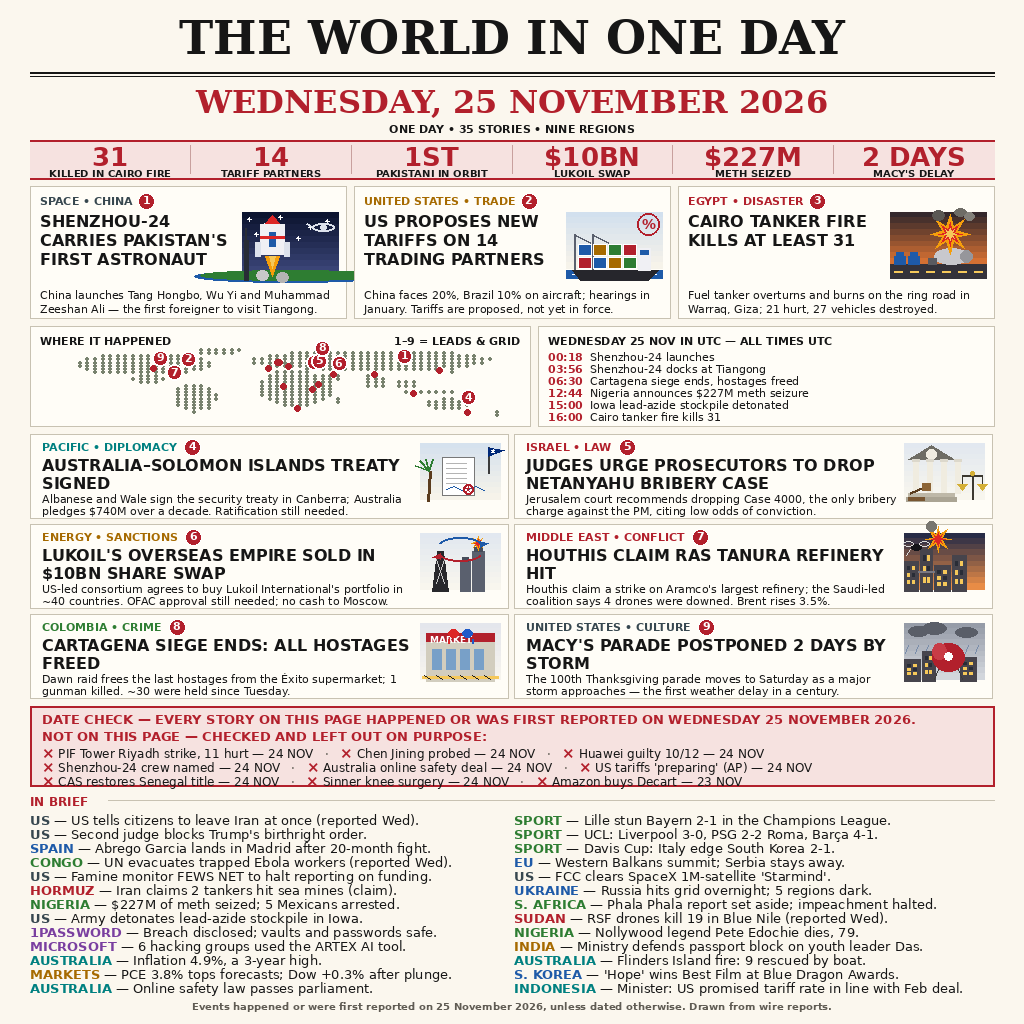
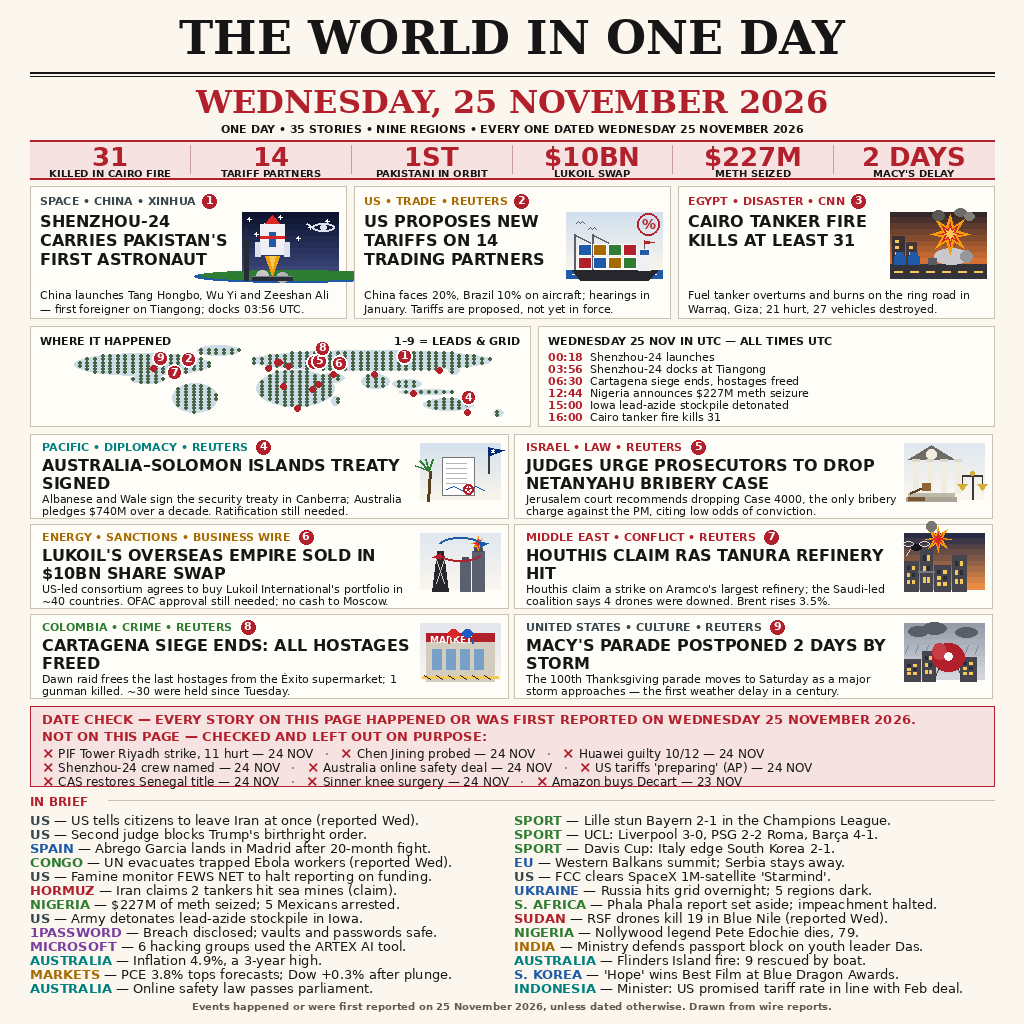
v2 design review: map landmass fill, source tags, date affirmation in sub-line, richer lead art, thinner DATE CHECK border

diff --git a/generate_poster.py b/generate_poster.py
@@ -161,6 +161,10 @@ def ill_rocket(d, x, y, w, h):
               fill=(245, 200, 90))
     d.ellipse([rx - 4, base - 10, rx + 8, base], fill=(200, 200, 200))
     d.ellipse([rx + 16, base - 8, rx + 28, base + 2], fill=(180, 180, 180))
+    # launch pad platform under the rocket
+    d.rectangle([rx - 8, base - 4, rx + 32, base], fill=(40, 44, 54))
+    d.line([(rx - 8, base - 4), (rx + 32, base - 4)], fill=(120, 126, 138),
+           width=1)
     # launch tower silhouette, far left
     d.rectangle([x + 2, base - 40, x + 6, base], fill=(40, 44, 54))
     d.line([(x + 4, base - 40), (x + 4, base - 52)], fill=(40, 44, 54), width=2)
@@ -194,11 +198,21 @@ def ill_tariff(d, x, y, w, h):
             by = base - 8 - (r + 1) * 13
             d.rectangle([bx, by, bx + 13, by + 11], fill=cols[(r + c) % 4],
                         outline=(255, 255, 255), width=1)
-    # bridge tower
+    # bridge tower + small flag on top
     d.rectangle([x + w - 24, base - 30, x + w - 12, base - 8],
                 fill=(240, 240, 244))
     d.rectangle([x + w - 22, base - 28, x + w - 14, base - 24],
                 fill=(30, 90, 168))
+    d.line([(x + w - 18, base - 38), (x + w - 18, base - 30)],
+           fill=(90, 96, 110), width=1)
+    d.polygon([(x + w - 18, base - 38), (x + w - 8, base - 36),
+               (x + w - 18, base - 34)], fill=(178, 32, 44))
+    # gulls in the sky
+    for gx, gy in ((x + 14, y + 12), (x + 26, y + 18)):
+        d.arc([gx - 4, gy - 3, gx, gy + 3], 200, 340, fill=(90, 96, 110),
+              width=1)
+        d.arc([gx, gy - 3, gx + 4, gy + 3], 200, 340, fill=(90, 96, 110),
+              width=1)
     # big red % stamp, top-right
     px, py = x + w - 14, y + 12
     d.ellipse([px - 11, py - 11, px + 11, py + 11], outline=(178, 32, 44),
@@ -214,6 +228,13 @@ def ill_tanker_fire(d, x, y, w, h):
     """
     base = y + h - 6
     sky_bands(d, x, y, w, h - 14, (52, 40, 44), (232, 122, 52))
+    # Cairo skyline silhouettes behind the highway
+    d.rectangle([x + 2, base - 42, x + 14, base - 14], fill=(58, 48, 52))
+    d.rectangle([x + 16, base - 36, x + 26, base - 14], fill=(66, 54, 58))
+    for wy in (base - 38, base - 32, base - 26):
+        d.rectangle([x + 5, wy, x + 8, wy + 2], fill=(245, 200, 90))
+    for wy in (base - 32, base - 26):
+        d.rectangle([x + 19, wy, x + 22, wy + 2], fill=(245, 200, 90))
     # highway
     d.rectangle([x, base - 14, x + w, base], fill=(52, 50, 58))
     for lx in range(x + 4, x + w - 4, 16):
@@ -485,6 +506,12 @@ def draw_map(d, x0, y0, w, h, dot_r=2.2):
         return y0 + (lat0 - lat) / (lat0 - lat1) * h
 
     step_lon, step_lat = 5.8, 6.0
+    # Pale landmass fill first, so the map reads as continents at
+    # thumbnail size (dots alone turn into a faint smear).
+    for (clon, clat, rx, ry) in LAND:
+        gx0, gy0 = px(clon - rx), py(clat + ry)
+        gx1, gy1 = px(clon + rx), py(clat - ry)
+        d.ellipse([gx0, gy0, gx1, gy1], fill=(205, 220, 228))
     lon = -177.0
     while lon <= 187.0:
         lat = 75.0
@@ -493,7 +520,7 @@ def draw_map(d, x0, y0, w, h, dot_r=2.2):
                 if ((lon - clon) / rx) ** 2 + ((lat - clat) / ry) ** 2 <= 1.0:
                     gx, gy = px(lon), py(lat)
                     d.ellipse([gx - dot_r, gy - dot_r, gx + dot_r, gy + dot_r],
-                              fill=(120, 130, 110))
+                              fill=(70, 100, 70))
                     break
             lat -= step_lat
         lon += step_lon
@@ -528,17 +555,17 @@ STRIP = [
 ]
 
 LEADS = [
-    {"kicker": "SPACE \u2022 CHINA", "color": C_SLATE, "badge": "1",
+    {"kicker": "SPACE \u2022 CHINA \u2022 XINHUA", "color": C_SLATE, "badge": "1",
      "art": ill_rocket,
      "headline": "SHENZHOU-24 CARRIES PAKISTAN'S FIRST ASTRONAUT",
-     "deck": ("China launches Tang Hongbo, Wu Yi and Muhammad Zeeshan "
-              "Ali \u2014 the first foreigner to visit Tiangong.")},
-    {"kicker": "UNITED STATES \u2022 TRADE", "color": C_AMBER, "badge": "2",
+     "deck": ("China launches Tang Hongbo, Wu Yi and Zeeshan Ali \u2014 "
+              "first foreigner on Tiangong; docks 03:56 UTC.")},
+    {"kicker": "US \u2022 TRADE \u2022 REUTERS", "color": C_AMBER, "badge": "2",
      "art": ill_tariff,
      "headline": "US PROPOSES NEW TARIFFS ON 14 TRADING PARTNERS",
      "deck": ("China faces 20%, Brazil 10% on aircraft; hearings in "
               "January. Tariffs are proposed, not yet in force.")},
-    {"kicker": "EGYPT \u2022 DISASTER", "color": C_CRIMSON, "badge": "3",
+    {"kicker": "EGYPT \u2022 DISASTER \u2022 CNN", "color": C_CRIMSON, "badge": "3",
      "art": ill_tanker_fire,
      "headline": "CAIRO TANKER FIRE KILLS AT LEAST 31",
      "deck": ("Fuel tanker overturns and burns on the ring road in "
@@ -555,37 +582,37 @@ TIMELINE = [
 ]
 
 GRID = [
-    {"kicker": "PACIFIC \u2022 DIPLOMACY", "color": C_TEAL, "badge": "4",
+    {"kicker": "PACIFIC \u2022 DIPLOMACY \u2022 REUTERS", "color": C_TEAL, "badge": "4",
      "art": ill_treaty,
      "headline": "AUSTRALIA\u2013SOLOMON ISLANDS TREATY SIGNED",
      "body": ("Albanese and Wale sign the security treaty in Canberra; "
               "Australia pledges $740M over a decade. Ratification "
               "still needed.")},
-    {"kicker": "ISRAEL \u2022 LAW", "color": C_CRIMSON, "badge": "5",
+    {"kicker": "ISRAEL \u2022 LAW \u2022 REUTERS", "color": C_CRIMSON, "badge": "5",
      "art": ill_court,
      "headline": "JUDGES URGE PROSECUTORS TO DROP NETANYAHU BRIBERY CASE",
      "body": ("Jerusalem court recommends dropping Case 4000, the only "
               "bribery charge against the PM, citing low odds of "
               "conviction.")},
-    {"kicker": "ENERGY \u2022 SANCTIONS", "color": C_AMBER, "badge": "6",
+    {"kicker": "ENERGY \u2022 SANCTIONS \u2022 BUSINESS WIRE", "color": C_AMBER, "badge": "6",
      "art": ill_oil,
      "headline": "LUKOIL'S OVERSEAS EMPIRE SOLD IN $10BN SHARE SWAP",
      "body": ("US-led consortium agrees to buy Lukoil International's "
               "portfolio in ~40 countries. OFAC approval still needed; "
               "no cash to Moscow.")},
-    {"kicker": "MIDDLE EAST \u2022 CONFLICT", "color": C_CRIMSON, "badge": "7",
+    {"kicker": "MIDDLE EAST \u2022 CONFLICT \u2022 REUTERS", "color": C_CRIMSON, "badge": "7",
      "art": ill_refinery,
      "headline": "HOUTHIS CLAIM RAS TANURA REFINERY HIT",
      "body": ("Houthis claim a strike on Aramco's largest refinery; the "
               "Saudi-led coalition says 4 drones were downed. Brent "
               "rises 3.5%.")},
-    {"kicker": "COLOMBIA \u2022 CRIME", "color": C_GREEN, "badge": "8",
+    {"kicker": "COLOMBIA \u2022 CRIME \u2022 REUTERS", "color": C_GREEN, "badge": "8",
      "art": ill_siege,
      "headline": "CARTAGENA SIEGE ENDS: ALL HOSTAGES FREED",
      "body": ("Dawn raid frees the last hostages from the \u00c9xito "
               "supermarket; 1 gunman killed. ~30 were held since "
               "Tuesday.")},
-    {"kicker": "UNITED STATES \u2022 CULTURE", "color": C_SLATE, "badge": "9",
+    {"kicker": "UNITED STATES \u2022 CULTURE \u2022 REUTERS", "color": C_SLATE, "badge": "9",
      "art": ill_parade,
      "headline": "MACY'S PARADE POSTPONED 2 DAYS BY STORM",
      "body": ("The 100th Thanksgiving parade moves to Saturday as a "
@@ -663,7 +690,8 @@ def main():
 
     # Sub-line.
     f_sub = F(SANS_B, 11)
-    sub = "ONE DAY \u2022 35 STORIES \u2022 NINE REGIONS"
+    sub = ("ONE DAY \u2022 35 STORIES \u2022 NINE REGIONS \u2022 EVERY ONE "
+           "DATED WEDNESDAY 25 NOVEMBER 2026")
     sw = d.textlength(sub, font=f_sub)
     d.text(((W - sw) / 2, 122), sub, font=f_sub, fill=INK)
 
@@ -768,7 +796,7 @@ def main():
     # big red x each. The 24 Nov wording (which won re-judging 10/10):
     # judges must not read the exclusions as included wrong-date stories.
     dy, dh = 706, 80
-    d.rectangle([MX, dy, W - MX, dy + dh], fill=RED_BAND, outline=RED, width=2)
+    d.rectangle([MX, dy, W - MX, dy + dh], fill=RED_BAND, outline=RED, width=1)
     f_dc = F(SANS_B, 13)
     d.text((MX + 12, dy + 5),
            "DATE CHECK \u2014 EVERY STORY ON THIS PAGE HAPPENED OR WAS "
